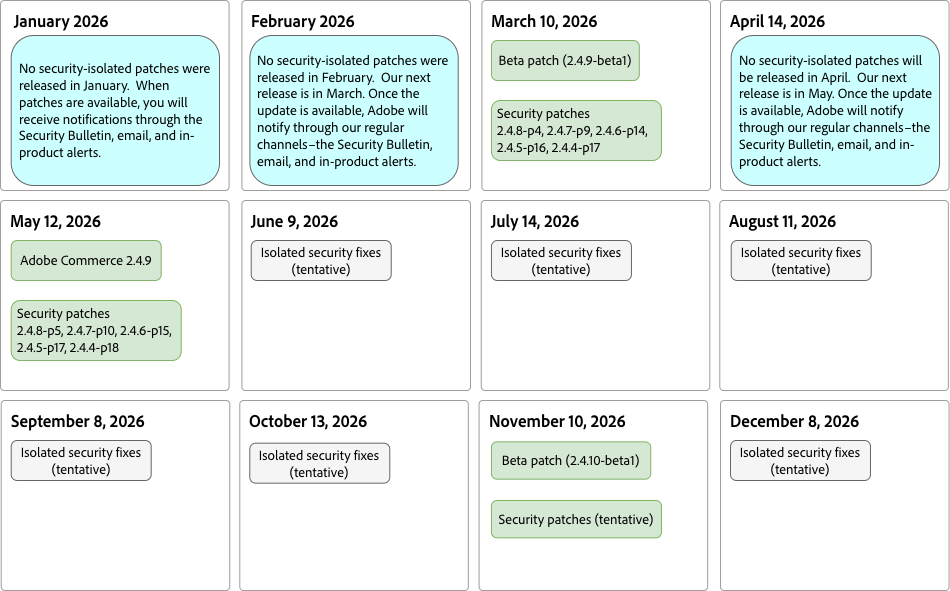
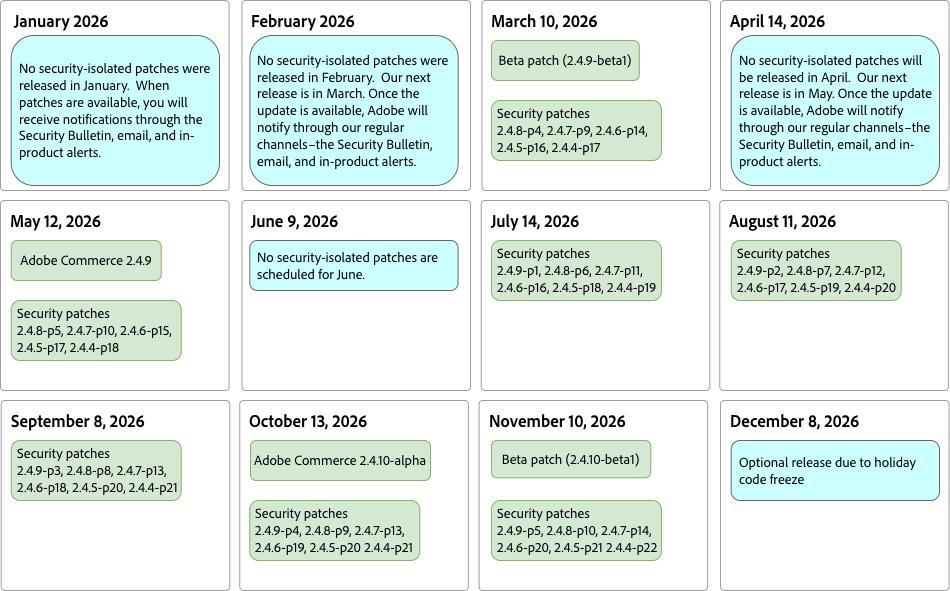
Updates to versioning, llifecycle policy, and release schedule

diff --git a/help/release/lifecycle-policy.md b/help/release/lifecycle-policy.md
@@ -8,21 +8,17 @@ exl-id: 9ee4ecc8-d893-412a-a605-5a8606a1b9a9
 
 For Adobe Commerce 2.4.4 and subsequent releases:
 
-- To streamline the Adobe Commerce lifecycle policy and support the mission-critical needs of customers, Adobe expanded the support window to three years from the General Availability (GA) date for Adobe Commerce 2.4.4 and later. Adobe provides quality fixes to the 2.4.4 and later releases for a three-year support period. Customers can access quality fixes by contacting [Adobe Commerce Support](https://experienceleague.adobe.com/en/docs/commerce-knowledge-base/kb/help-center-guide/magento-help-center-user-guide) or through the self-serve [[!DNL Quality Patches Tool]](https://experienceleague.adobe.com/tools/commerce-quality-patches/index.html) if their version is still eligible for quality support. The following table described end of software support dates for the Adobe Commerce release lines.
+- To streamline the Adobe Commerce lifecycle policy and support the mission-critical needs of customers, Adobe expanded the support window to three years from the General Availability (GA) date. Adobe provides quality fixes for a three-year support period. Customers can access quality fixes by contacting [Adobe Commerce Support](https://experienceleague.adobe.com/en/docs/commerce-knowledge-base/kb/help-center-guide/magento-help-center-user-guide) or through the self-serve [[!DNL Quality Patches Tool]](https://experienceleague.adobe.com/tools/commerce-quality-patches/index.html) if their version is still eligible for quality support. The following table described end of software support dates for the Adobe Commerce release lines.
 
-- Adobe provides security fixes through a security patch release for the three-year support period.
+- Adobe provides security fixes through a cumulative security-only patches and non-cumulative [isolated security fixes](versioning-policy.md#isolated-security-fixes) for the three-year support period.
 
 - For critical security issues, such as zero-day vulnerabilities, Adobe provides [hotfixes](https://support.magento.com/hc/en-us/sections/360003869892-Known-issues-patches-attached-) for all customers on a supported version, even if they are not on the latest patch or security patch release. Note that a hotfix is not comprehensive and does not address all security issues that would be resolved by upgrading to the latest release.
 
 - Adobe does not provide security and quality fixes for third-party services and software dependencies (such as PHP and MySQL) that may reach end of life while customers are on the three-year support period for Adobe Commerce. See the [system requirements](../installation/system-requirements.md) for a full list of tested and supported third-party technologies.
 
-- For Adobe Commerce on Cloud customers using versions 2.4.4 and 2.4.5, Adobe automatically applies PHP 8.1 lifetime security fixes to the infrastructure, so these customers are not impacted by PHP 8.1 end-of-support. On-premises customers using Adobe Commerce 2.4.4 and 2.4.5 must contact Adobe Support to request PHP 8.1 lifetime security patches if needed.
-
-- Adobe provides compatibility with third-party services and software dependencies while customers are on the three-year support period for Adobe Commerce in the scope of security-only patch releases, but only when it is possible to do so without introducing backward-incompatible changes.
-
 ## Extended support
 
-Adobe encourages customers to upgrade as soon as possible. However, to provide greater flexibility to align with upgrade plans and business needs, Adobe offers a one-year support extension at no additional cost for Adobe Commerce customers on versions 2.4.4 and 2.4.5. The support extension includes quality and security patches for the core application for up to one year.
+Adobe encourages customers to upgrade as soon as possible. However, to provide greater flexibility to align with upgrade plans and business needs, Adobe offers a one-year support extension at no additional cost for Adobe Commerce customers on versions 2.4.6. The support extension includes quality and security patches for the core application for up to one year. Extended support for Adobe Commerce 2.4.4 and 2.4.5 versions ends in April and August 2026 as planned.
 
 >[!NOTE]
 >
@@ -30,24 +26,19 @@ Adobe encourages customers to upgrade as soon as possible. However, to provide g
 
 ## End of software support
 
-| Release              | General Availability | End of regular support<sup>1</sup> | End of extended support | Dependent PHP version | Dependent MariaDB version |
-|----------------------|----------------------|------------------------------------|-------------------------|-----------------------|---------------------------|
-| Adobe Commerce 2.4.8 | April 8, 2025        | April 11, 2028                     | N/A                     | 8.3 and 8.4           | 11.4                      |
-| Adobe Commerce 2.4.7 | April 9, 2024        | April 9, 2027                      | N/A                     | 8.2 and 8.3           | 10.11<sup>3</sup>         |
-| Adobe Commerce 2.4.6 | March 14, 2023       | August 11, 2026<sup>2</sup>        | N/A                     | 8.1 and 8.2           | 10.11<sup>4</sup>         |
-| Adobe Commerce 2.4.5 | August 9, 2022       | August 12, 2025                    | August 11, 2026         | 8.1                   | 10.6<sup>5</sup>          |
-| Adobe Commerce 2.4.4 | April 12, 2022       | April 12, 2025                     | April 14, 2026          | 8.1                   | 10.6<sup>6</sup>          |
+| Release              | General Availability | End of regular support<sup>1</sup> | End of extended support |
+|----------------------|----------------------|------------------------------------|-------------------------|
+| Adobe Commerce 2.4.8 | April 8, 2025        | May 31, 2028                       | TBD                     |
+| Adobe Commerce 2.4.7 | April 9, 2024        | May 31, 2027                       | TBD                     |
+| Adobe Commerce 2.4.6 | March 14, 2023       | August 11, 2026                    | August 30, 2027         |
+| Adobe Commerce 2.4.5 | August 9, 2022       | August 12, 2025                    | August 11, 2026         |
+| Adobe Commerce 2.4.4 | April 12, 2022       | April 12, 2025                     | April 14, 2026          |
 
 {style="table-layout:auto"}
 
 >[!NOTE]
 >
->- <sup>1</sup> End of software support includes both end of quality fixes and end of security fixes.
->- <sup>2</sup> Updated to align with the end of extended support for 2.4.5.
->- <sup>3</sup> Starting with the 2.4.7-p6 security patch.
->- <sup>4</sup> Starting with the 2.4.6-p11 security patch.
->- <sup>5</sup> Starting with the 2.4.5-p11 security patch.
->- <sup>6</sup> Starting with the 2.4.4-p12 security patch.
+>- <sup>1</sup> If you are an Adobe Commerce customer, you can continue to receive security and quality fixes for an additional year through the extended support period.
 >- See [Software Lifecycle Policy](https://www.adobe.com/content/dam/cc/en/legal/terms/enterprise/pdfs/Adobe-Commerce-Software-Lifecycle-Policy.pdf).
 
 <table style="table-layout:auto">
@@ -144,3 +135,24 @@ Adobe encourages customers to upgrade as soon as possible. However, to provide g
   </tr>
  </tbody>
 </table>
+
+## Additional Security fixes provisioning for Adobe Commerce 2.4.4 and 2.4.5
+
+As a one-time exception, Adobe is providing an extended security fixes provisioning period for Adobe Commerce versions 2.4.4 and 2.4.5 to give customers additional time to migrate to Adobe Commerce as a Cloud Service (ACCS) or upgrade to a supported release line.
+
+During this security fixes provisioning period, please note the following:
+
+- **Isolated security fixes only**-Isolated security patches will be released for these versions according to the release schedule. No security-only patch releases (i.e., no new -p versions) will be provided during this period.
+
+- **No quality fixes or engineering assistance**–No bug fixes, quality updates ([Quality Patches Tool](../tools/quality-patches-tool/usage.md)), or engineering assistance ([Adobe Commerce Support](https://experienceleague.adobe.com/en/docs/commerce-knowledge-base/kb/help-center-guide/magento-help-center-user-guide)) will be provided for versions 2.4.4 or 2.4.5 during this period.
+
+- **PCI compliance is not guaranteed:**–Because 2.4.4 and 2.4.5 use PHP versions that have reached end of life, PCI compliance cannot be guaranteed for merchants on those releases. Continuing to run these versions may put your PCI compliance at risk.
+
+To maintain full security coverage and ensure PCI compliance, customers must upgrade to a currently supported version of Adobe Commerce as soon as possible or migrate to [Adobe Commerce as a Cloud Service](https://experienceleague.adobe.com/en/docs/commerce/cloud-service/overview).
+
+| Release              | General Availability | End of extended support | End of Security fixes provisioning |
+|----------------------|----------------------|-------------------------|------------------------------------|
+| Adobe Commerce 2.4.5 | August 9, 2022       | August 11, 2026         | May 2027                           |
+| Adobe Commerce 2.4.4 | April 12, 2022       | April 14, 2026          | May 2027                           |
+
+{style="table-layout:auto"}

diff --git a/help/release/versioning-policy.md b/help/release/versioning-policy.md
@@ -57,7 +57,7 @@ Beta releases may contain defects and are provided "AS IS" without warranty of a
 
 ## Hotfix
 
-Hotfixes are patches that contain high-impact security or quality fixes, such as fixes to zero-day vulnerabilities, that affect many merchants. Adobe releases hotfixes (as needed) for supported Adobe Commerce versions when critical security or quality issues affect them. Hotfixes are published to the [Known Issues section](https://support.magento.com/hc/en-us/sections/360003869892-Known-issues-patches-attached-) of the Knowledge Base. These fixes are included in the next planned patch release.
+Hotfixes are patches that contain high-impact security or quality fixes, such as fixes to zero-day vulnerabilities, that affect many merchants. Adobe releases hotfixes (as needed) for supported Adobe Commerce versions when critical security or quality issues affect them. Hotfixes are delivered through the [Quality Patches Tool](../tools/quality-patches-tool/usage.md). These fixes are included in the next planned patch release.
 
 >[!NOTE]
 >
@@ -65,20 +65,14 @@ Hotfixes are patches that contain high-impact security or quality fixes, such as
 
 ## Individual patch
 
-Individual patches contain low-impact quality fixes for a specific issue. These fixes are applied to the supported minor versions of Adobe Commerce. Adobe releases individual patches as needed for Adobe Commerce in accordance with the [Software Lifecycle Policy](https://www.adobe.com/content/dam/cc/en/legal/terms/enterprise/pdfs/Adobe-Commerce-Software-Lifecycle-Policy.pdf).
+Individual patches contain low-impact quality fixes for a specific issue. These fixes are applied to the supported minor versions of Adobe Commerce. Adobe releases individual patches as needed for Adobe Commerce in accordance with the [Software Lifecycle Policy](https://www.adobe.com/content/dam/cc/en/legal/terms/enterprise/pdfs/Adobe-Commerce-Software-Lifecycle-Policy.pdf). They are delivered through the [Quality Patches Tool](../tools/quality-patches-tool/usage.md).
 
 >[!NOTE]
 >
 >Individual patches do not contain backward-incompatible changes.
 
-## Isolated security fixes
-
-Isolated patches are non-cumulative security fixes released independently from a full security patch to allow for faster implementation. Each isolated security fix addresses a specific security problem and is either included in the latest or an upcoming full security patch. Details about the issue are provided in the related security bulletin, which links to a Knowledge Base (KB) article containing the fix details, how to apply the fix, and additional information.
-
-See the [Security Center](https://helpx.adobe.com/security/products/magento.html) to find the latest security updates available for Adobe Commerce.
-
 ## Custom patch
 
-Created by non-Adobe personnel to fix an issue or modify the Adobe Commerce code for various reasons. Custom patches are delivered through the [Quality Patches Tool](https://experienceleague.adobe.com/en/docs/commerce-operations/tools/quality-patches-tool/usage).
+Created by non-Adobe personnel to fix an issue or modify the Adobe Commerce code for various reasons.
 
 <!-- Last updated from includes: 2025-10-09 22:53:22 -->

diff --git a/help/_includes/release-notes/security-patch-overview.md b/help/_includes/release-notes/security-patch-overview.md
@@ -15,3 +15,12 @@ For instructions on downloading and applying security patches, see [How to obtai
 >[!NOTE]
 >
 >Extended support security patches for 2.4.4 and 2.4.5 are available to Adobe Commerce customers only and not available for the Magento Open Source code base. See [Extended Support](https://experienceleague.adobe.com/en/docs/commerce-operations/release/planning/lifecycle-policy#extended-support).
+
+## Isolated security fixes
+
+Isolated patches are non-cumulative security fixes released independently from a full security patch to allow for faster implementation. Each isolated security fix addresses a specific security problem and is either included in the latest or an upcoming full security patch. Details about the issue are provided in the related security bulletin, which links to a Knowledge Base (KB) article containing the fix details, how to apply the fix, and additional information.
+
+To apply isolated security fixes, customers must be on the latest security-only patch release (the latest -p version) for their supported release line, as isolated security fixes are tested exclusively against that version.
+
+See the [Security Center](https://helpx.adobe.com/security/products/magento.html) to find the latest security updates available for Adobe Commerce.
+

diff --git a/help/release/schedule.md b/help/release/schedule.md
@@ -18,7 +18,7 @@ In addition to the scheduled quality, security, and beta patches listed on this 
 
 Adobe Commerce patch releases are released based on the following guidelines:
 
-- **Isolated security fixes**—Individual, non-cumulative [security fixes](versioning-policy.md#isolated-patch) are released as needed and include security fixes for all [supported](lifecycle-policy.md) release lines (includes regular and extended support).
+- **Isolated security fixes**—Individual, non-cumulative [security fixes](versioning-policy.md#isolated-patch) are released as needed and include security fixes for all [supported](lifecycle-policy.md) release lines (includes regular and extended support). To apply isolated security fixes, customers must be on the latest security-only patch release (the latest -p version) for their supported release line, as isolated security fixes are tested exclusively against that version.
 
 - **Security patches**—At minimium, [security patches](versioning-policy.md#security-patch-release) are released annually for all [supported](lifecycle-policy.md) release lines. These patches include all previously released isolated security fixes. Adobe may release additional security patches if necessary, but it is not guaranteed.
 
